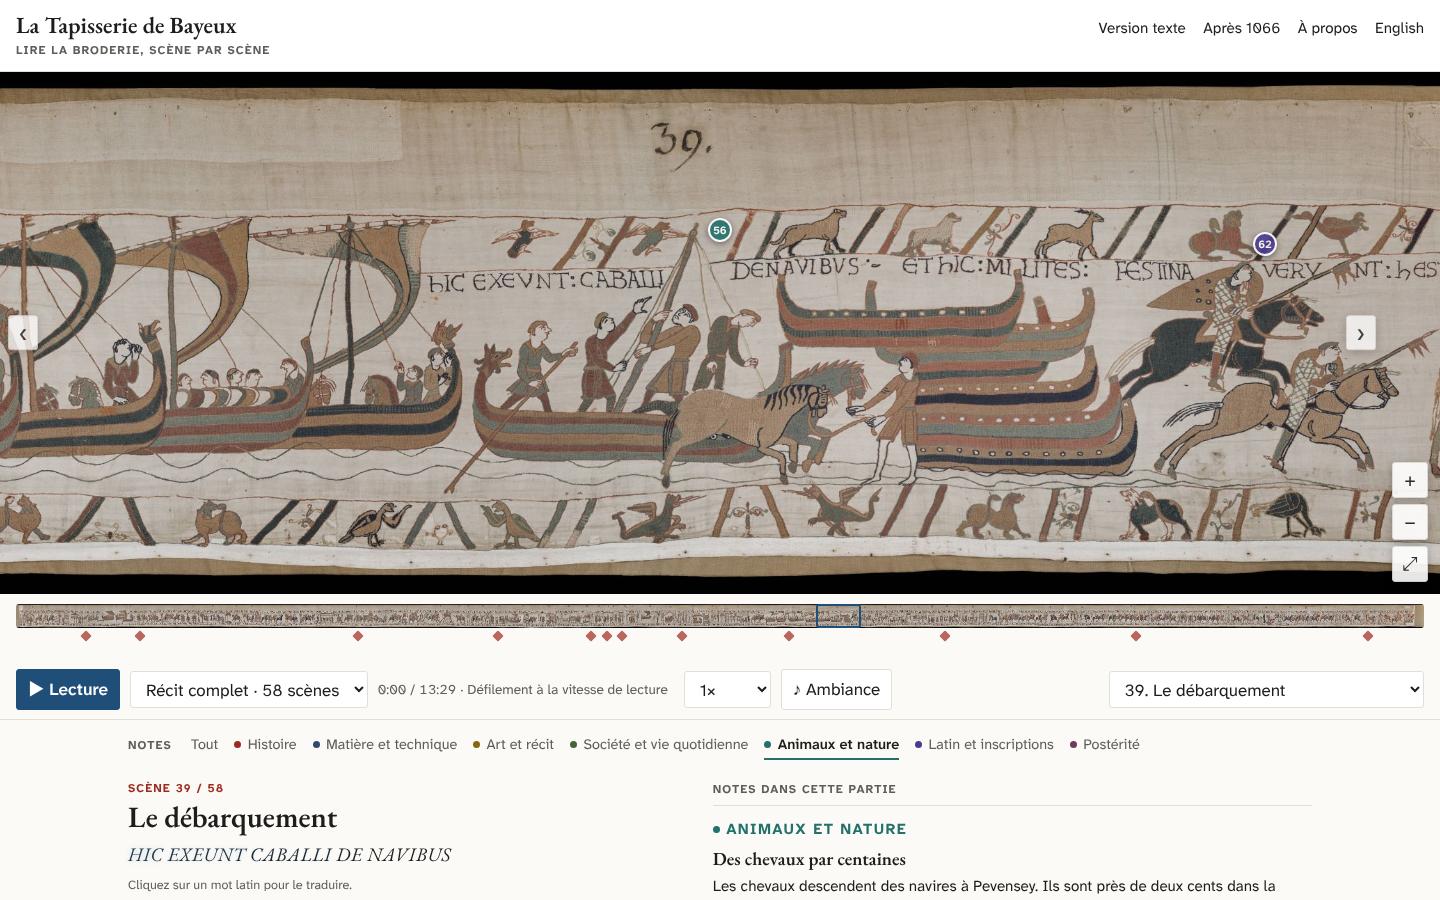
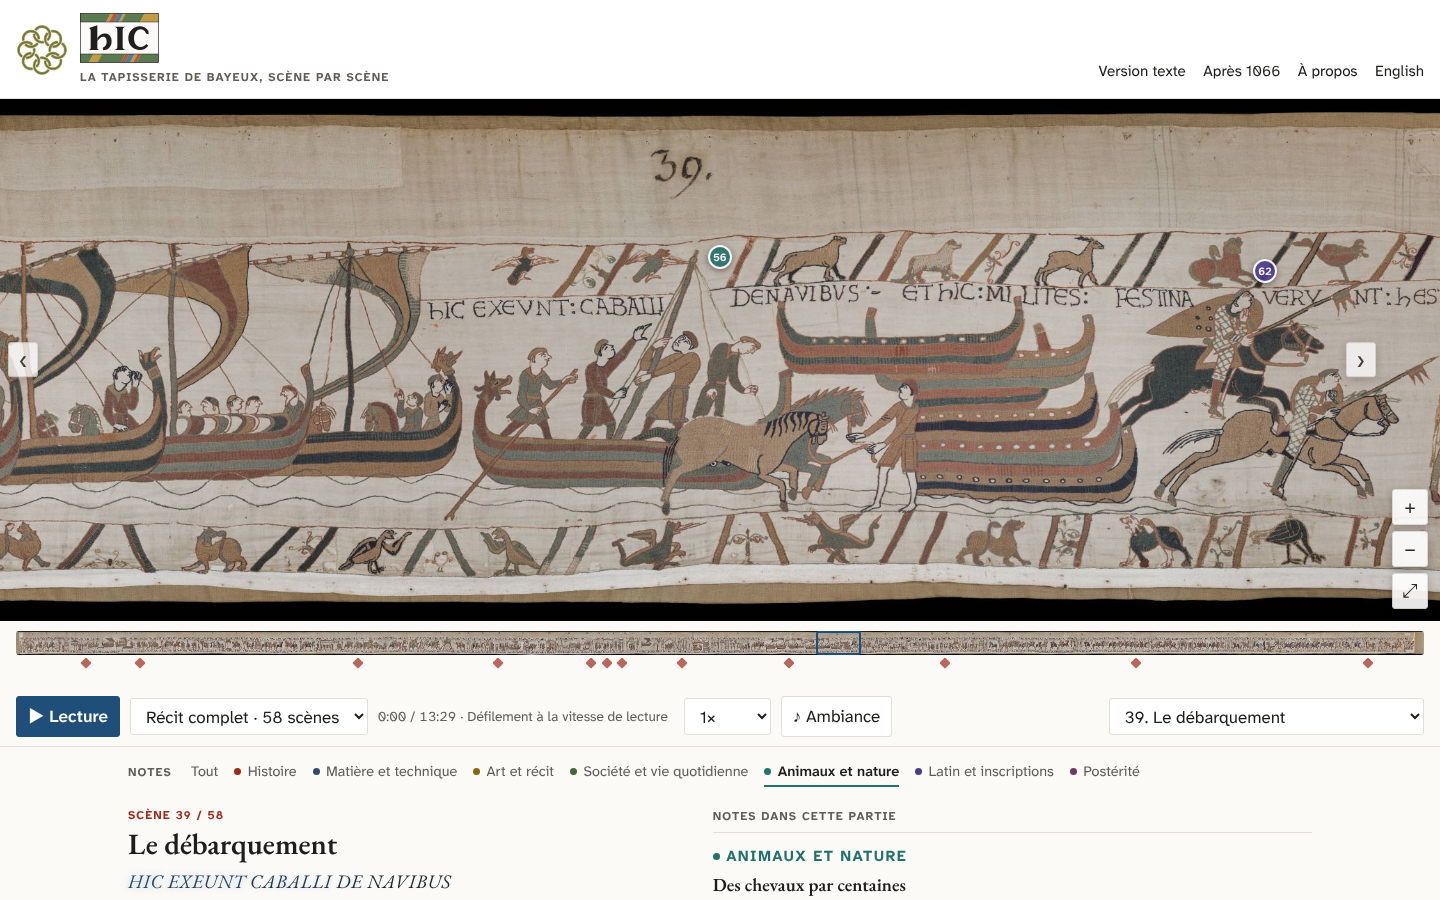
Name the project Hic: uncial wordmark between striped bands, a ring of woven loops
- scripts/make_brand.py draws both marks as SVG (own drawings, never traced): heavy uncial hIC on a paper
  panel framed by slanted stripes in muted wool colours; eight loops each passing over and under its two
  neighbours, as a green ribbon edged in ochre.
- The header shows both marks (inlined), the favicon is the ring on linen; titles become Hic.

Claude-Session: https://claude.ai/code/session_01FvHjSPvBTgkvXVytX7VrTE

diff --git a/src/main.ts b/src/main.ts
@@ -2,6 +2,8 @@ import "@fontsource-variable/atkinson-hyperlegible-next";
 import "@fontsource-variable/eb-garamond";
 import "@fontsource-variable/eb-garamond/wght-italic.css";
 import "./style.css";
+import knotSvg from "../public/brand/hic-knot.svg?raw";
+import wordmarkSvg from "../public/brand/hic-wordmark.svg?raw";
 import { renderAfterlife } from "./afterlife";
 import { Ambient } from "./ambient";
 import { highlights, latin, layers, media, milestones, notes, recordedCues, sceneByNumber, scenes, slides } from "./content";
@@ -97,6 +99,13 @@ function openAbout(): void {
 
 // ---------- header ----------
 
+/** Our own SVG marks (scripts/make_brand.py), inlined from the build so they need no extra request. */
+function brandMark(className: string, markup: string): HTMLElement {
+  const span = h("span", { class: className, "aria-hidden": "true" });
+  span.innerHTML = markup;
+  return span;
+}
+
 function header(): HTMLElement {
   const other: Lang = state.lang === "fr" ? "en" : "fr";
   const viewLink = (view: AppState["view"], label: string) =>
@@ -108,7 +117,16 @@ function header(): HTMLElement {
   return h(
     "header",
     { class: "topbar" },
-    h("div", { class: "brand" }, h("h1", {}, h("a", { href: serializeState({ ...state, view: "strip", tool: "none" }) }, t.appTitle)), h("p", {}, t.appSubtitle)),
+    h(
+      "div",
+      { class: "brand" },
+      h(
+        "a",
+        { href: serializeState({ ...state, view: "strip", tool: "none" }), class: "brand-link" },
+        brandMark("brand-knot", knotSvg),
+        h("div", { class: "brand-text" }, h("h1", {}, brandMark("brand-word", wordmarkSvg), h("span", { class: "visually-hidden" }, t.appTitle)), h("p", {}, t.appSubtitle)),
+      ),
+    ),
     h(
       "nav",
       { class: "topnav" },

diff --git a/src/style.css b/src/style.css
@@ -81,9 +81,14 @@ button.icon { font-size: 1.5rem; line-height: 1; padding: 0.1rem 0.6rem; }
   display: flex; flex-wrap: wrap; gap: 0.5rem 1.5rem; align-items: baseline; justify-content: space-between;
   padding: 0.8rem 16px 0.7rem; border-bottom: 1px solid var(--line); background: var(--surface);
 }
-.brand h1 { font: 600 1.45rem/1.1 var(--font-display); margin: 0; }
-.brand h1 a { color: inherit; text-decoration: none; }
-.brand p { margin: 0.15rem 0 0; color: var(--muted); }
+.brand-link { display: flex; align-items: center; gap: 12px; color: var(--ink); text-decoration: none; }
+.brand-knot svg { display: block; width: 52px; height: 52px; }
+.brand-word svg { display: block; height: 50px; width: auto; }
+.brand h1 { margin: 0; line-height: 0; }
+.brand p { margin: 0.3rem 0 0; color: var(--muted); }
+.visually-hidden {
+  position: absolute; width: 1px; height: 1px; overflow: hidden; clip-path: inset(50%); white-space: nowrap;
+}
 .topnav { display: flex; gap: 1.1rem; align-items: baseline; flex-wrap: wrap; font-size: 0.95rem; }
 .topnav a, .topnav button.link { color: var(--ink); text-decoration: none; }
 .topnav a:hover, .topnav button.link:hover { color: var(--accent); }
@@ -306,7 +311,8 @@ button.icon { font-size: 1.5rem; line-height: 1; padding: 0.1rem 0.6rem; }
 }
 @media (max-width: 640px) {
   body { font-size: 16px; }
-  .brand h1 { font-size: 1.3rem; }
+  .brand-knot svg { width: 36px; height: 36px; }
+  .brand-word svg { height: 32px; }
   .nav { display: none; }
   .slide-frame { grid-template-columns: 1fr; }
   .nav-slide { display: none; }

diff --git a/src/i18n/en.ts b/src/i18n/en.ts
@@ -1,7 +1,7 @@
 import type { Strings } from "./fr";
 
 export const en: Strings = {
-  appTitle: "The Bayeux Tapestry",
+  appTitle: "Hic",
   zoomIn: "Zoom in",
   zoomOut: "Zoom out",
   zoomFit: "Fit the full height",
@@ -78,7 +78,7 @@ export const en: Strings = {
   backToTapestry: "Back to the embroidery",
   whatNext: "What happened next: the embroidery's life after 1066 →",
   noteNumber: "Note",
-  appSubtitle: "Reading the embroidery, scene by scene",
+  appSubtitle: "The Bayeux Tapestry, scene by scene",
   switchLang: "Français",
   switchLangLabel: "Lire en français",
   scene: "Scene",

diff --git a/src/i18n/fr.ts b/src/i18n/fr.ts
@@ -1,5 +1,5 @@
 export const fr = {
-  appTitle: "La Tapisserie de Bayeux",
+  appTitle: "Hic",
   zoomIn: "Zoomer",
   zoomOut: "Dézoomer",
   zoomFit: "Voir toute la hauteur",
@@ -76,7 +76,7 @@ export const fr = {
   backToTapestry: "Retour à la broderie",
   whatNext: "La suite de l'histoire : la vie de la broderie après 1066 →",
   noteNumber: "Note",
-  appSubtitle: "Lire la broderie, scène par scène",
+  appSubtitle: "La Tapisserie de Bayeux, scène par scène",
   switchLang: "English",
   switchLangLabel: "Read in English",
   scene: "Scène",

diff --git a/index.html b/index.html
@@ -5,7 +5,7 @@
     <meta name="viewport" content="width=device-width, initial-scale=1" />
     <meta name="description" content="Une lecture bilingue et commentée de la Tapisserie de Bayeux, scène par scène. A bilingual, narrated reading of the Bayeux Tapestry, scene by scene." />
     <link rel="icon" href="favicon.svg" type="image/svg+xml" />
-    <title>La Tapisserie de Bayeux</title>
+    <title>Hic — La Tapisserie de Bayeux</title>
   </head>
   <body>
     <div id="app"></div>

diff --git a/src/yaml.d.ts b/src/yaml.d.ts
@@ -2,3 +2,8 @@ declare module "*.yaml" {
   const data: unknown;
   export default data;
 }
+
+declare module "*.svg?raw" {
+  const markup: string;
+  export default markup;
+}

diff --git a/scripts/make_brand.py b/scripts/make_brand.py
@@ -1,0 +1,204 @@
+"""Draws the project's marks as SVG: the "hIC" wordmark framed by two striped border bands, and the knot of loops.
+
+Our own drawings after the embroidery (never traced from the photography): heavy uncial letters after the
+captions, bands after the borders' slanted bars, a ring of woven loops after the interlace of the trees.
+Muted wool colours: sage green, ochre, terracotta, slate blue. Run: python scripts/make_brand.py
+(writes public/brand/ and public/favicon.svg).
+"""
+
+import math
+from pathlib import Path
+
+OUT = Path(__file__).resolve().parent.parent / "public"
+INK = "#1f1f1d"
+GREEN = "#5b7a52"
+OCHRE = "#c39a45"
+TERRA = "#b5593c"
+BLUE = "#4f7d99"
+PAPER = "#fbfaf6"
+LINEN = "#f3efe6"
+
+# ---------- wordmark ----------
+
+# Each band is a run of slanted stripes: (colour, width), filling the band from left to right.
+TOP_BAND = [(GREEN, 92), (OCHRE, 9), (TERRA, 15), (BLUE, 14), (OCHRE, 8), (GREEN, 56), (OCHRE, 70)]
+BOTTOM_BAND = [(GREEN, 40), (OCHRE, 26), (GREEN, 70), (TERRA, 12), (BLUE, 16), (OCHRE, 9), (TERRA, 10), (GREEN, 90)]
+LEAN = 14
+
+
+def band(y: float, height: float, width: float, stripes: list[tuple[str, float]], clip: str) -> str:
+    parts = [f'<clipPath id="{clip}"><rect x="0" y="{y}" width="{width}" height="{height}"/></clipPath>',
+             f'<g clip-path="url(#{clip})">']
+    x = -LEAN
+    for colour, w in stripes:
+        parts.append(
+            f'<path d="M{x:.1f} {y + height}L{x + LEAN:.1f} {y}H{x + LEAN + w + 0.6:.1f}L{x + w + 0.6:.1f} {y + height}Z" '
+            f'fill="{colour}"/>'
+        )
+        x += w
+    parts.append("</g>")
+    return "".join(parts)
+
+
+# Heavy uncial letters: a thick stem and a hooked bowl for h, a flared I, a C thicker on the left.
+LETTERS = f"""<g fill="{INK}">
+    <path d="M27 45L52 37V104C52 108 54 110 59 111H25C30 110 32 108 32 104V52C32 49 30 47 27 45Z"/>
+    <path d="M52 76C58 64 70 59 81 62C93 66 97 79 94 93C91 104 82 111 70 112L68 104C76 101 80 95 80 86C80 76 76 71 70 71C63 71 57 76 52 85Z"/>
+    <path d="M103 41H137C130 43 128 46 128 51V101C128 106 130 109 137 111H103C110 109 112 106 112 101V51C112 46 110 43 103 41Z"/>
+    <path d="M204 52C197 43 187 39 177 40C158 42 145 57 145 76C145 95 158 110 177 111C188 112 198 107 205 98L199 93C194 99 188 102 182 102C170 102 162 91 162 76C162 61 170 49 182 49C188 49 194 53 198 59Z"/>
+    <path d="M196 56L205 52L206 64L199 62Z"/>
+  </g>"""
+
+
+def wordmark() -> str:
+    width, height = 236, 150
+    return f"""<svg xmlns="http://www.w3.org/2000/svg" viewBox="0 0 {width} {height}" role="img" aria-label="Hic">
+  <title>Hic</title>
+  <rect x="1" y="1" width="{width - 2}" height="{height - 2}" fill="{PAPER}"/>
+  {band(1, 26, width, TOP_BAND, "band-top")}
+  {band(123, 26, width, BOTTOM_BAND, "band-bottom")}
+  <path d="M1 27H{width - 1}M1 123H{width - 1}" stroke="{INK}" stroke-width="1.5"/>
+  <rect x="1" y="1" width="{width - 2}" height="{height - 2}" fill="none" stroke="{INK}" stroke-width="2"/>
+  {LETTERS}
+</svg>
+"""
+
+
+# ---------- knot ----------
+# A ring of loops, after the interlace of the trees that divide the scenes: circles set round a ring, each crossing
+# its neighbours. Over and under alternate along every loop (solved as a two-colouring of the crossings), and a
+# loop is simply broken where it passes under, so the mark needs no masks and sits on any background. It is drawn
+# as a ribbon: ochre edges, green inside.
+
+LOOPS = 8
+RING = 30.0
+LOOP_R = 15.0
+RIBBON, FILL = 5.6, 3.0
+GAP = 1.1
+
+Pt = tuple[float, float]
+
+
+def loops(samples: int = 720) -> list[list[Pt]]:
+    out = []
+    for i in range(LOOPS):
+        a = 2 * math.pi * i / LOOPS - math.pi / 2
+        cx, cy = 50 + RING * math.cos(a), 50 + RING * math.sin(a)
+        out.append([(cx + LOOP_R * math.cos(2 * math.pi * k / samples + a),
+                     cy + LOOP_R * math.sin(2 * math.pi * k / samples + a)) for k in range(samples + 1)])
+    return out
+
+
+def crossings(strands):
+    """[(strand a, position on a, strand b, position on b, point, sin of the angle)] between different strands."""
+    found = []
+    for a in range(len(strands)):
+        for b in range(a + 1, len(strands)):
+            pa, pb = strands[a], strands[b]
+            for i in range(len(pa) - 1):
+                for j in range(len(pb) - 1):
+                    p, q, r, s = pa[i], pa[i + 1], pb[j], pb[j + 1]
+                    d = (q[0] - p[0]) * (s[1] - r[1]) - (q[1] - p[1]) * (s[0] - r[0])
+                    if abs(d) < 1e-12:
+                        continue
+                    t = ((r[0] - p[0]) * (s[1] - r[1]) - (r[1] - p[1]) * (s[0] - r[0])) / d
+                    u = ((r[0] - p[0]) * (q[1] - p[1]) - (r[1] - p[1]) * (q[0] - p[0])) / d
+                    if 0 <= t < 1 and 0 <= u < 1:
+                        sin = abs(d) / (math.dist(p, q) * math.dist(r, s))
+                        found.append((a, i + t, b, j + u, (p[0] + t * (q[0] - p[0]), p[1] + t * (q[1] - p[1])), sin))
+    return found
+
+
+def weave(cross, count: int) -> list[int]:
+    """The strand on top at each crossing, alternating along every strand (two-colouring by search)."""
+    a_over: dict[int, bool] = {}
+    links: dict[int, list[tuple[int, bool]]] = {k: [] for k in range(len(cross))}
+    for s in range(count):
+        seq = sorted((c[1] if c[0] == s else c[3], k) for k, c in enumerate(cross) if s in (c[0], c[2]))
+        for (_, k1), (_, k2) in zip(seq, seq[1:] + seq[:1]):
+            same = (cross[k1][0] == s) == (cross[k2][0] == s)
+            links[k1].append((k2, same))
+            links[k2].append((k1, same))
+    for start in range(len(cross)):
+        if start in a_over:
+            continue
+        a_over[start] = True
+        todo = [start]
+        while todo:
+            k = todo.pop()
+            for other, same in links[k]:
+                want = (not a_over[k]) if same else a_over[k]
+                if other not in a_over:
+                    a_over[other] = want
+                    todo.append(other)
+                elif a_over[other] != want:
+                    raise ValueError("this layout cannot alternate over and under")
+    return [cross[k][0] if a_over[k] else cross[k][2] for k in range(len(cross))]
+
+
+def poly(pts) -> str:
+    return "M" + "L".join(f"{x:.2f} {y:.2f}" for x, y in pts)
+
+
+def broken(pts: list[Pt], holes: list[tuple[float, float]]) -> list[list[Pt]]:
+    """A closed polyline cut at each (position, half length) hole, as open pieces."""
+    n = len(pts) - 1
+    arc = [0.0]
+    for i in range(n):
+        arc.append(arc[-1] + math.dist(pts[i], pts[i + 1]))
+    total = arc[-1]
+
+    def length(pos: float) -> float:
+        i = min(int(pos), n - 1)
+        return arc[i] + (pos - i) * (arc[i + 1] - arc[i])
+
+    def point(at: float) -> Pt:
+        at %= total
+        lo, hi = 0, n
+        while hi - lo > 1:
+            mid = (lo + hi) // 2
+            lo, hi = (mid, hi) if arc[mid] <= at else (lo, mid)
+        f = (at - arc[lo]) / (arc[lo + 1] - arc[lo])
+        return (pts[lo][0] + f * (pts[lo + 1][0] - pts[lo][0]), pts[lo][1] + f * (pts[lo + 1][1] - pts[lo][1]))
+
+    cuts = sorted((length(pos), half) for pos, half in holes)
+    pieces = []
+    for k, (h, half) in enumerate(cuts):
+        nxt, nxt_half = cuts[(k + 1) % len(cuts)]
+        start, end = h + half, nxt - nxt_half
+        if end <= start:
+            end += total
+        steps = max(2, int((end - start) / 0.5))
+        pieces.append([point(start + (end - start) * i / steps) for i in range(steps + 1)])
+    return pieces
+
+
+def knot(background: str | None, size: int = 64) -> str:
+    strands = loops()
+    cross = crossings(strands)
+    top = weave(cross, len(strands))
+    paths = []
+    for s, pts in enumerate(strands):
+        # The upper loop covers RIBBON / sin(angle) of this one, so shallow crossings get longer holes.
+        holes = [(c[1] if c[0] == s else c[3], RIBBON / 2 / max(0.35, c[5]) + GAP)
+                 for k, c in enumerate(cross) if s in (c[0], c[2]) and top[k] != s]
+        paths += [f'<path d="{poly(piece)}"/>' for piece in broken(pts, holes)]
+    body = "".join(paths)
+    bg = f'<rect width="100" height="100" rx="18" fill="{background}"/>' if background else ""
+    return f"""<svg xmlns="http://www.w3.org/2000/svg" viewBox="0 0 100 100" width="{size}" height="{size}" role="img" aria-label="Hic">
+  <title>Hic</title>
+  {bg}
+  <g fill="none" stroke-linecap="butt" stroke-linejoin="round">
+    <g stroke="{OCHRE}" stroke-width="{RIBBON}">{body}</g>
+    <g stroke="{GREEN}" stroke-width="{FILL}">{body}</g>
+  </g>
+</svg>
+"""
+
+
+if __name__ == "__main__":
+    (OUT / "brand").mkdir(exist_ok=True)
+    (OUT / "brand" / "hic-wordmark.svg").write_text(wordmark())
+    (OUT / "brand" / "hic-knot.svg").write_text(knot(None))
+    (OUT / "favicon.svg").write_text(knot(LINEN))
+    print("written public/brand/hic-wordmark.svg, public/brand/hic-knot.svg, public/favicon.svg")

diff --git a/docs/decisions.md b/docs/decisions.md
@@ -8,6 +8,20 @@
 - **Rejected**: tiling the official panorama now (breaks its terms); embedding it in an iframe (no control
   over scrolling, so no narration sync).
 
+## 2026-10-14 — Name and marks: "Hic" and a ring of woven loops
+- **Decision** (Paul, after several rounds of sketches and a reference he drew): the project is called *Hic*
+  ("here", the first word of most captions). The wordmark sets "hIC" in heavy uncial letters on a paper panel
+  framed by two bands of slanted stripes, after the borders' bars, in muted wool colours (sage green, ochre,
+  terracotta, slate blue). The logo is a ring of eight loops, each passing over and under its two neighbours, drawn
+  as a green ribbon edged in ochre: the interlace of the trees that divide the scenes, for intertwined histories
+  and for needlework. Both are SVG drawn by `scripts/make_brand.py`; the header shows them, the favicon is the ring
+  on linen.
+- **Why**: the interlace recurs throughout the embroidery; the bands frame the name as the borders frame the story;
+  muted colours read as considered rather than playful. Eight loops, each crossing only its neighbours, stay clean
+  when small.
+- **Rejected**: a whole tree (busy, hard to read small); denser knots with many loops (crossings crowd together);
+  bright saturated colours and a thin outlined wordmark (too childish, then too faint); tracing from the photography.
+
 ## 2026-10-14 — A plainer, research-project look
 - **Decision** (Paul): paper white, ink and hairline rules, one woad-blue accent for everything clickable, madder red
   for the main events; square corners, no cards or pills. Fewer controls on screen: theme filters as a text row,

diff --git a/CLAUDE.md b/CLAUDE.md
@@ -47,6 +47,8 @@ layers/<id>.yaml          image layers: source_url, size, tile width, scene_star
 public/tiles/<id>/        image.dzi + image_files/ (deep zoom) + overview.jpg, written by scripts/make_tiles.py
                           (Image tiles workflow); bayeux2017 is 3,000 px high (~236 MB)
 public/media/             Commons pictures (Media workflow) and maps/<name>.<lang>.mp4 map clips + posters
+public/brand/             the marks: hic-wordmark.svg ("hIC" framed by striped bands) and hic-knot.svg (a ring of
+                          woven loops; also public/favicon.svg), drawn by scripts/make_brand.py, never traced
 public/audio/ambient/     public-domain chant for the ambient sound (Media workflow)
 maps/                     Map-clip-render scenes, written by scripts/map_scenes.py
 public/audio/             narration.{fr,en}.mp3 once recorded (one continuous track per language)
@@ -59,7 +61,7 @@ src/afterlife.ts          the afterlife slideshow
 src/latin.ts              caption words and their expansions, grammar labels (pure)
 src/tools.ts              ?tool=cues (cue editor), ?tool=calibrate (scene starts)
 src/main.ts               rendering and wiring       src/i18n/{fr,en}.ts  every UI string
-scripts/                  make_tiles.py, fetch_media.mjs, map_scenes.py, review.mjs, screenshots.mjs
+scripts/                  make_tiles.py, fetch_media.mjs, map_scenes.py, make_brand.py, review.mjs, screenshots.mjs
 docs/decisions.md         decision log            docs/review.md  generated review checklist
 ```
 

diff --git a/README.md b/README.md
@@ -1,4 +1,4 @@
-# The Bayeux Tapestry, scene by scene / La Tapisserie de Bayeux, scène par scène
+# Hic — The Bayeux Tapestry, scene by scene / La Tapisserie de Bayeux, scène par scène
 
 **EN** — A bilingual (French/English) web app to read the Bayeux Tapestry from left to right: scroll the whole
 embroidery, follow a narrated tour that scrolls for you, and open sourced notes on key scenes (Harold's oath,
